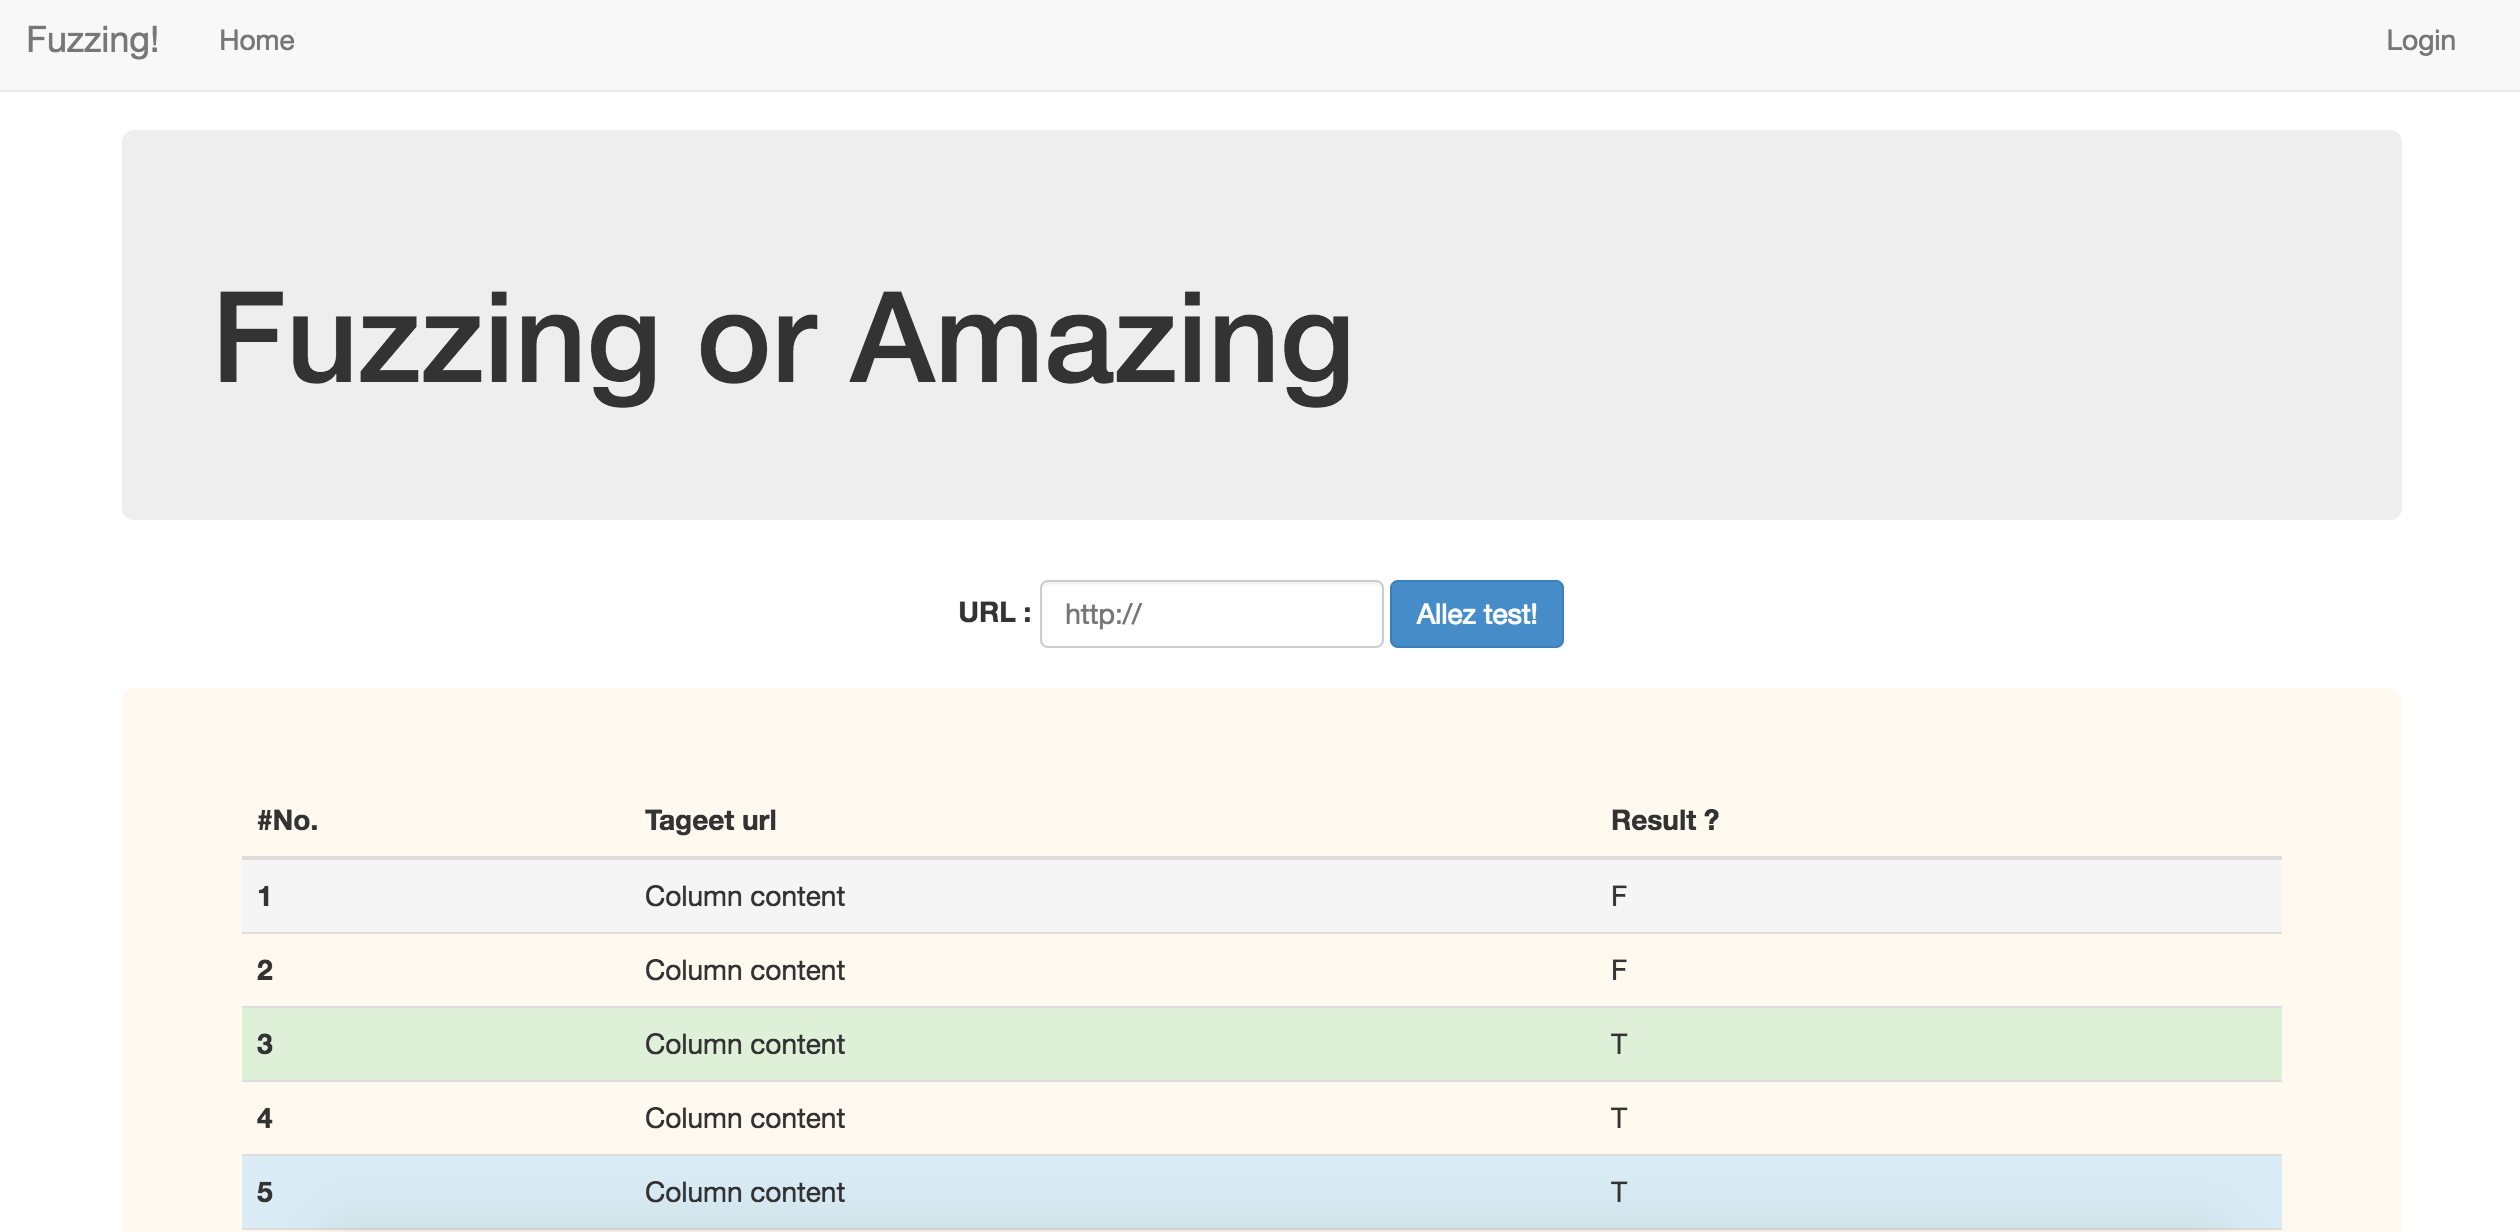
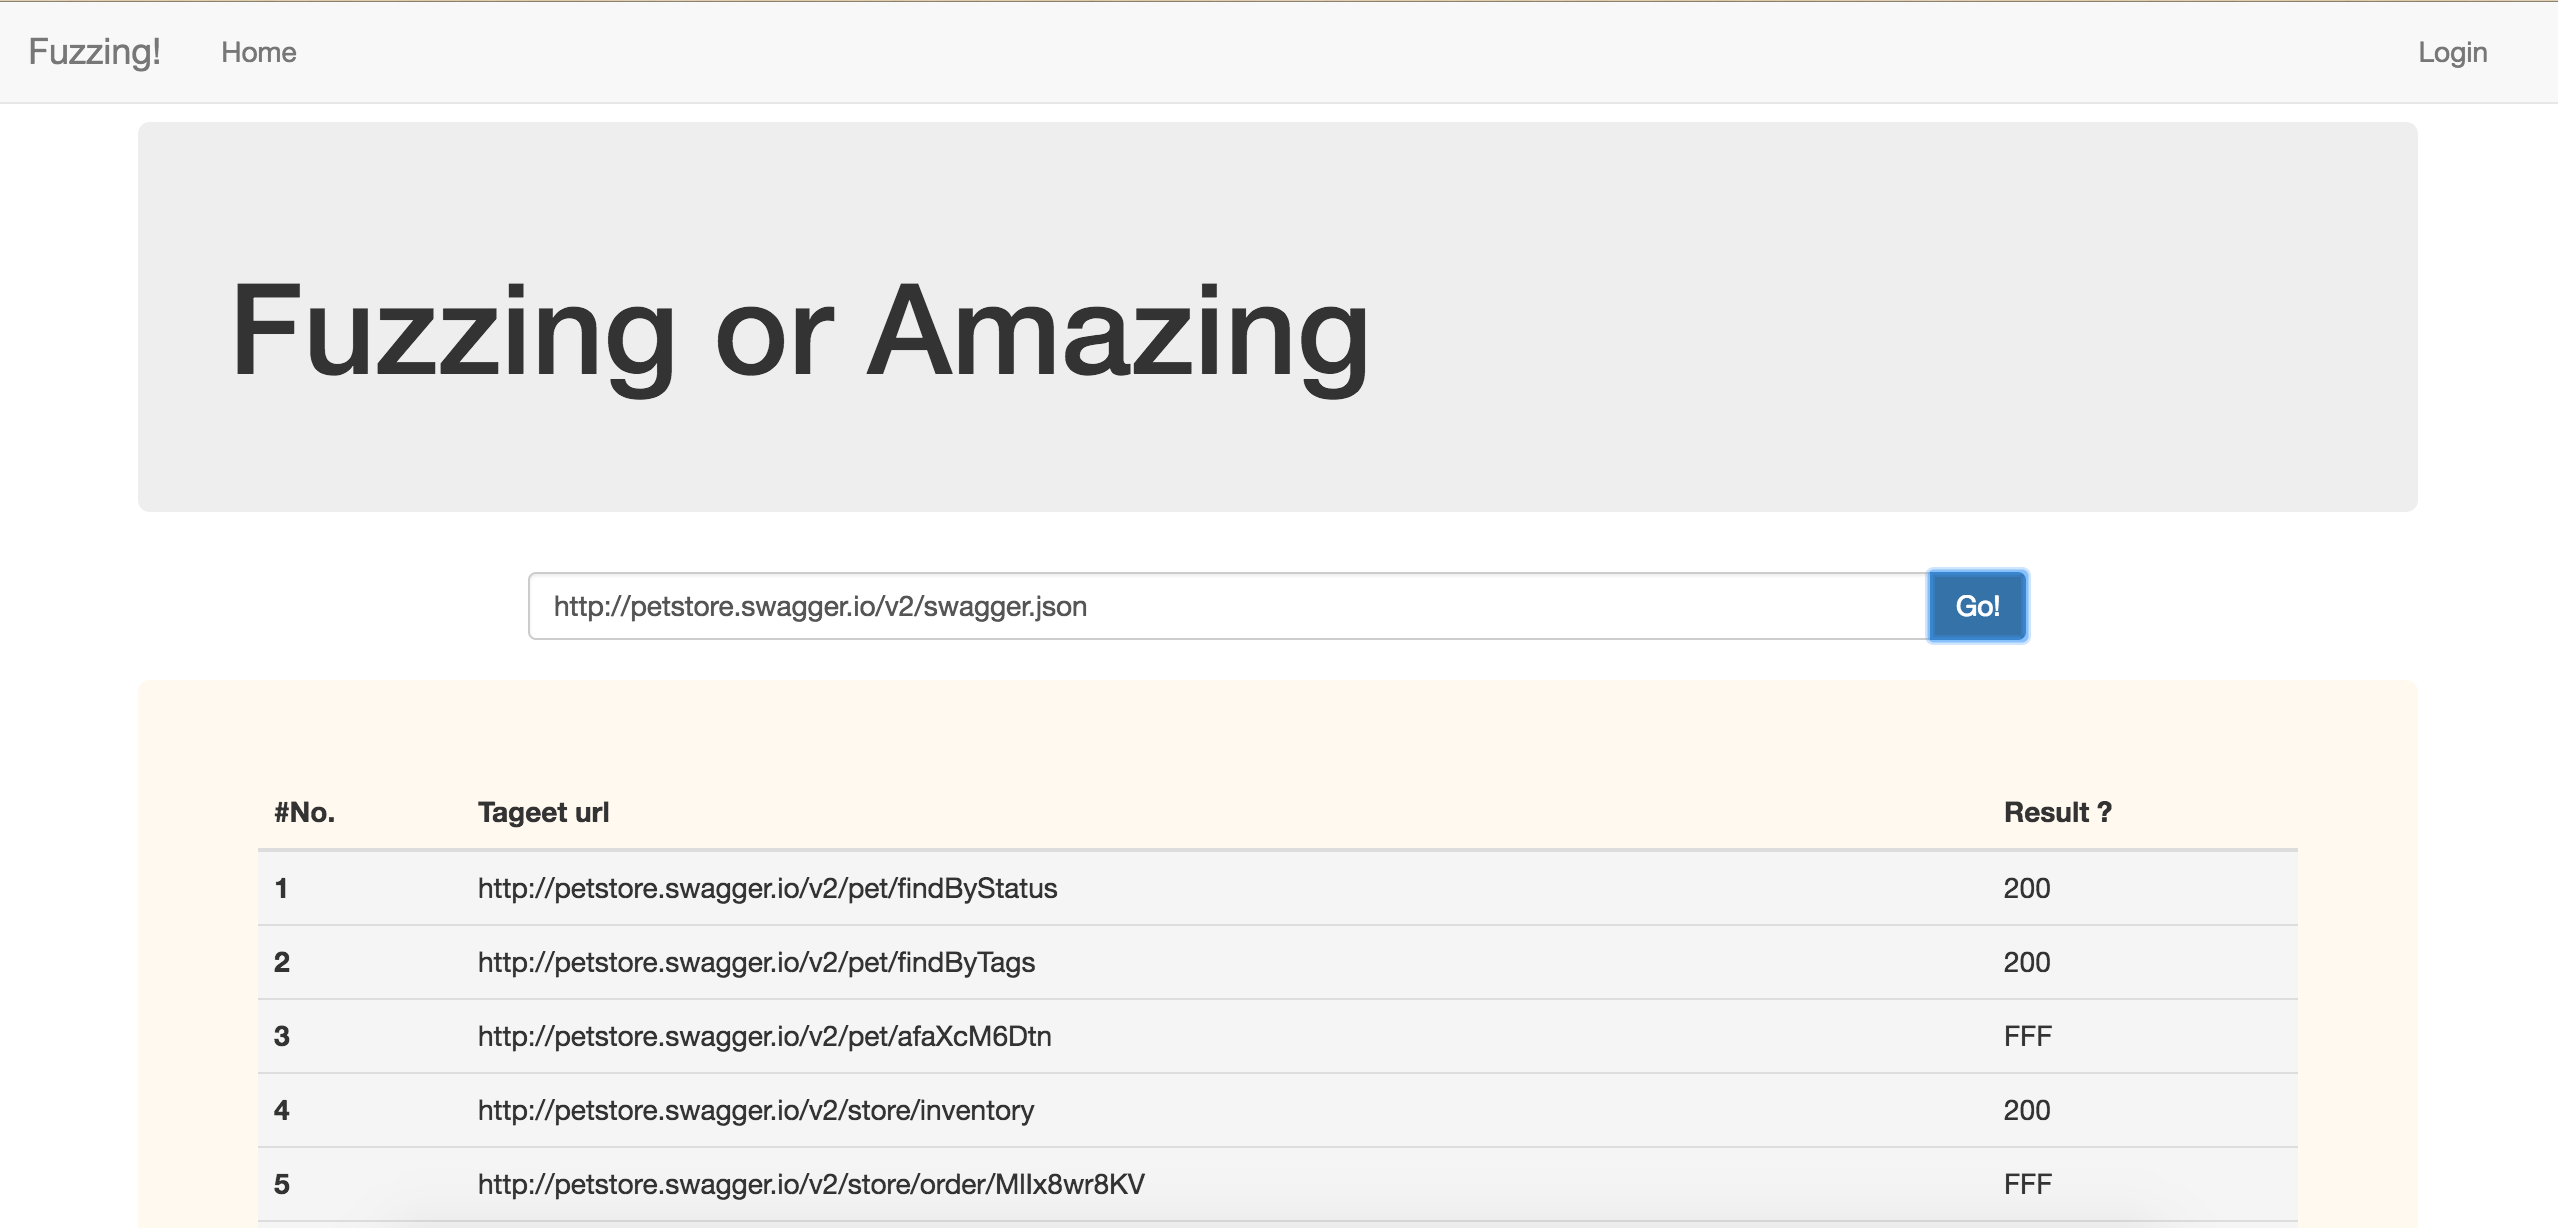
add RandomString && Update Readme

diff --git a/fuzzing/src/main/java/esir3/vv/Api.java b/fuzzing/src/main/java/esir3/vv/Api.java
@@ -23,130 +23,109 @@ import java.util.Map;
 @Path("v1")
 public class Api {
 
-	private FuzzingData data;
+    private FuzzingData data;
 
-	public Api() {
-		data = FuzzingData.getInstance();
-		System.out.println("[+] Fuzzing api init...");
-	}
+    public Api() {
+        data = FuzzingData.getInstance();
+        System.out.println("[+] Fuzzing api init...");
+    }
 
-	/**
-	 * http://localhost:8080/api/v1/getStatus
-	 *
-	 * @return
-	 * @throws Exception
-	 */
-	@GET
-	@Path("getStatus")
-	@Produces(MediaType.APPLICATION_JSON)
-	public Response getStatus() throws Exception {
-		return Response.status(200).entity("{status:ok,msg:api works!}").build();
-	}
+    /**
+     * http://localhost:8080/api/v1/getStatus
+     *
+     * @return
+     * @throws Exception
+     */
+    @GET
+    @Path("getStatus")
+    @Produces(MediaType.APPLICATION_JSON)
+    public Response getStatus() throws Exception {
+        return Response.status(200).entity("{status:ok,msg:api works!}").build();
+    }
 
-	/**
-	 * http://localhost:8080/api/v1/getUrl
-	 *
-	 * @return
-	 * @throws Exception
-	 */
-	@GET
-	@Path("analyse")
-	@Produces(MediaType.APPLICATION_JSON)
-	public Response analyse() throws Exception {
+    /**
+     * http://localhost:8080/api/v1/analyse
+     *
+     * @return
+     * @throws Exception
+     */
+    @GET
+    @Path("analyse")
+    @Produces(MediaType.APPLICATION_JSON)
+    public Response analyse() throws Exception {
 
-		//        List<String> maLlist= new ArrayList<>();
-		//        maLlist.add("http://google.fr");
-		List<String> paths = data.getLink();
+        List<String> paths = data.getLink();
+        List<String> pathsValid = new ArrayList<>();
+        String hostname = data.getHostname();
+        String contentType = data.getContentType();
 
-		List<String> pathsValided = new ArrayList<>();
+        JSONObject jsonObject = new JSONObject();
+        jsonObject.put("hostname", hostname);
+        jsonObject.put("contentType", contentType);
 
-		String hostname = data.getHostname();
-		String contentType = data.getContentType();
+        for (String path : paths) {
+            String tmp = null;
+            try {
+                tmp = Tools.sendGet(path);
+                pathsValid.add(tmp.split("#")[0] + "#" + path);
+            } catch (Exception e) {
+                pathsValid.add("FFF#" + path);
+            }
+        }
+        jsonObject.put("paths", pathsValid);
+        System.out.println(jsonObject);
+        return Response.status(200).entity(jsonObject.toString()).build();
+    }
 
-		JSONObject jsonObject = new JSONObject();
+    /**
+     * http://localhost:8080/api/v1/getPath
+     *
+     * @throws Exception
+     */
+    @GET
+    @Path("getPath")
+    @Produces(MediaType.APPLICATION_JSON)
+    public Response getPath(@QueryParam("url") String url) throws Exception {
+        URI uri = new URI(url);
+        Swagger swagger = new SwaggerParser().read(url);
+        List<DataPath> dataPaths = new ArrayList<>();
 
-		jsonObject.put("hostname", hostname);
-		jsonObject.put("contentType", contentType);
+        if (swagger != null) {
+            Map<String, io.swagger.models.Path> paths = swagger.getPaths();
 
-		for (String path : paths) {
-			String tmp = null;
-			try {
-				tmp = Tools.sendGet(path);
-				pathsValided.add(tmp.split("#")[0] + "#" + path);
-			} catch (Exception e) {
-				pathsValided.add("FFF#" + path);
-			}
-		}
-		jsonObject.put("paths", pathsValided);
-		System.out.println(jsonObject);
-		return Response.status(200).entity(jsonObject.toString()).build();
-	}
+            for (String currentPathName : paths.keySet()) {
+                io.swagger.models.Path currentPath = paths.get(currentPathName);
 
-	/**
-	 * http://localhost:8080/api/v1/getPath
-	 *
-	 * @return
-	 * @throws Exception
-	 */
-	@GET
-	@Path("getPath")
-	@Produces(MediaType.APPLICATION_JSON)
-	public Response getPath(@QueryParam("url") String url) throws Exception {
+                if (currentPath.getGet() != null) {
+                    DataPath dataCurrentPath = new DataPath();
 
-		JSONObject ret = new JSONObject();
-		URI uri = new URI(url);
-		Swagger swagger = new SwaggerParser().read(url);
-		List<DataPath> dataPaths = new ArrayList<>();
+                    //	Get all responses codes
+                    dataCurrentPath.setCode(paths.get(currentPathName).getGet().getResponses().keySet());
 
-		if (swagger != null) 
-		{
-			Map<String, io.swagger.models.Path> paths = swagger.getPaths();
+                    // Get all link with data
+                    String linkBase = swagger.getSchemes().get(0).toString().toLowerCase() + "://" + swagger.getHost() + swagger.getBasePath() + currentPathName;
 
-			for (String currentPathName : paths.keySet()) 
-			{
-				io.swagger.models.Path currentPath = paths.get(currentPathName);
+                    if (!currentPath.getGet().getParameters().isEmpty()) {
+                        for (Parameter parameter : currentPath.getGet().getParameters()) {
+                            // todo
+                            linkBase = linkBase.replace("{" + parameter.getName() + "}", Tools.generateTestData());
+                            dataCurrentPath.setLink(linkBase);
+                        }
+                    } else {
+                        dataCurrentPath.setLink(linkBase);
+                    }
 
-				if(currentPath.getGet() !=null)
-				{
-					DataPath dataCurrentPath = new DataPath();
-
-					//	Get all responses codes
-					dataCurrentPath.setCode(paths.get(currentPathName).getGet().getResponses().keySet());
-
-					// Get all link with data
-					String linkBase = swagger.getSchemes().get(0).toString().toLowerCase()+"://"+swagger.getHost()+swagger.getBasePath()+currentPathName;	
-
-					if(!currentPath.getGet().getParameters().isEmpty())
-					{
-						for (Parameter parameter : currentPath.getGet().getParameters()) 
-						{
-							linkBase = linkBase.replace("{"+parameter.getName()+"}", Tools.generateTestData("String"));
-							dataCurrentPath.setLink(linkBase);
-						}
-					}
-					else
-					{
-						dataCurrentPath.setLink(linkBase);
-					}
-
-					dataPaths.add(dataCurrentPath);
-				}
-			}
-
-			ret.put("hostname", swagger.getHost());
-			ret.put("swaggerSource", url);
-			ret.put("paths", dataPaths);
-		}else
-		{
-			ret.put("EROOR", "SWAGGER FILE IS INVALID");
-		}
-
-		data.setHostname(uri.getHost());
-		data.setPaths(dataPaths);
-
-		System.out.print(dataPaths);
-
-		//		return  Response.status(200).entity(ret.toString()).build();
-		return Response.temporaryRedirect(new URI("http://localhost:8080/api/v1/analyse")).build();
-	}
+                    dataPaths.add(dataCurrentPath);
+                }
+            }
+            data.setHostname(swagger.getHost());
+            data.setPaths(dataPaths);
+        } else {
+            JSONObject ret = new JSONObject();
+            ret.put("msg", "SWAGGER FILE IS INVALID");
+            return Response.status(200).entity(ret.toString()).build();
+        }
+        System.out.print(dataPaths);
+        return Response.temporaryRedirect(new URI("http://localhost:8080/api/v1/analyse")).build();
+    }
 }

diff --git a/fuzzing/src/main/java/esir3/vv/FuzzingData.java b/fuzzing/src/main/java/esir3/vv/FuzzingData.java
@@ -4,54 +4,52 @@ import java.util.ArrayList;
 import java.util.List;
 
 public class FuzzingData {
-	
-	private String hostname;
-	private String contentType;
-	private List<DataPath> paths;
 
-	private static FuzzingData instance=null;
+    private String hostname;
+    private String contentType;
+    private List<DataPath> paths;
 
-	static FuzzingData getInstance() {
-		if (instance == null) {
-			instance = new FuzzingData();
-		}
-		return instance;
-	}
+    private static FuzzingData instance = null;
 
-	private FuzzingData() {
-	}
-	
-	private FuzzingData(String hostname, String contentType, List<DataPath> paths) {
-		this.hostname = hostname;
-		this.contentType = contentType;
-		this.paths = paths;
-	}
+    static FuzzingData getInstance() {
+        if (instance == null) {
+            instance = new FuzzingData();
+        }
+        return instance;
+    }
 
-	public String getHostname() {
-		return hostname;
-	}
-	public void setHostname(String hostname) {
-		this.hostname = hostname;
-	}
-	public String getContentType() {
-		return contentType;
-	}
-	public void setContentType(String contentType) {
-		this.contentType = contentType;
-	}
-	public List<DataPath> getPaths() {
-		return paths;
-	}
-	public void setPaths(List<DataPath> paths) {
-		this.paths = paths;
-	}
+    private FuzzingData() {
+    }
 
-	public List<String> getLink() {
-		List<String> result = new ArrayList<>();
-		
-		for (DataPath path : paths) {
-			result.add(path.getLink());
-		}
-		return result;
-	} 
+    public String getHostname() {
+        return hostname;
+    }
+
+    public void setHostname(String hostname) {
+        this.hostname = hostname;
+    }
+
+    public String getContentType() {
+        return contentType;
+    }
+
+    public void setContentType(String contentType) {
+        this.contentType = contentType;
+    }
+
+    public List<DataPath> getPaths() {
+        return paths;
+    }
+
+    public void setPaths(List<DataPath> paths) {
+        this.paths = paths;
+    }
+
+    public List<String> getLink() {
+        List<String> result = new ArrayList<>();
+        for (DataPath path : paths) {
+            result.add(path.getLink());
+        }
+        return result;
+    }
 }

diff --git a/fuzzing/src/main/java/esir3/vv/Tools.java b/fuzzing/src/main/java/esir3/vv/Tools.java
@@ -4,6 +4,7 @@ import java.io.BufferedReader;
 import java.io.InputStreamReader;
 import java.net.HttpURLConnection;
 import java.net.URL;
+import java.util.Random;
 
 import static javax.ws.rs.core.HttpHeaders.USER_AGENT;
 
@@ -11,6 +12,8 @@ import static javax.ws.rs.core.HttpHeaders.USER_AGENT;
  * Created by qfdk on 2016/11/16.
  */
 class Tools {
+
+    public enum type {Integer,String};
 
     // HTTP GET request
     static String sendGet(String url) throws Exception {
@@ -39,23 +42,21 @@ class Tools {
         //print result
         return responseCode+"#"+response.toString();
     }
-    
-	 /*** Pas beau !!
-	 * @param type
-	 * @return
-	 */
-	public static  String generateTestData(String type){
-		switch (type) {
-		case "integer":
-		case "Integer":
-		case "int":
-			return "10";
-		case "STRING":
-		case "string":
-		case "str":
-			return "generatedByYousLI";
-		default :
-			return "generatedByYousLI";
-		}
+
+    public static String randomString(int length) {
+        String str = "abcdefghijklmnopqrstuvwxyzABCDEFGHIJKLMNOPQRSTUVWXYZ0123456789";
+        Random random = new Random();
+        StringBuffer buf = new StringBuffer();
+        for (int i = 0; i < length; i++) {
+            int num = random.nextInt(62);
+            buf.append(str.charAt(num));
+        }
+        return buf.toString();
+    }
+    /*
+     * strategy 
+     */
+	public static String generateTestData(){
+        return randomString(10);
 	}
 }

diff --git a/README.md b/README.md
@@ -23,8 +23,12 @@ default `swagger.json` : http://localhost:8080/swagger.json
 - todo
 
 ## todo list
-
-- [X] web ui
-- [ ] call back
-- [ ] backend singleton
+- [ ] POST
+- [ ] GET
+- [ ] DELETE
+- [ ] MOVE ?
+- [ ] TEST
+- [X] WEB UI
+- [X] backend singleton
+- [ ] .travis.yml ?
 
